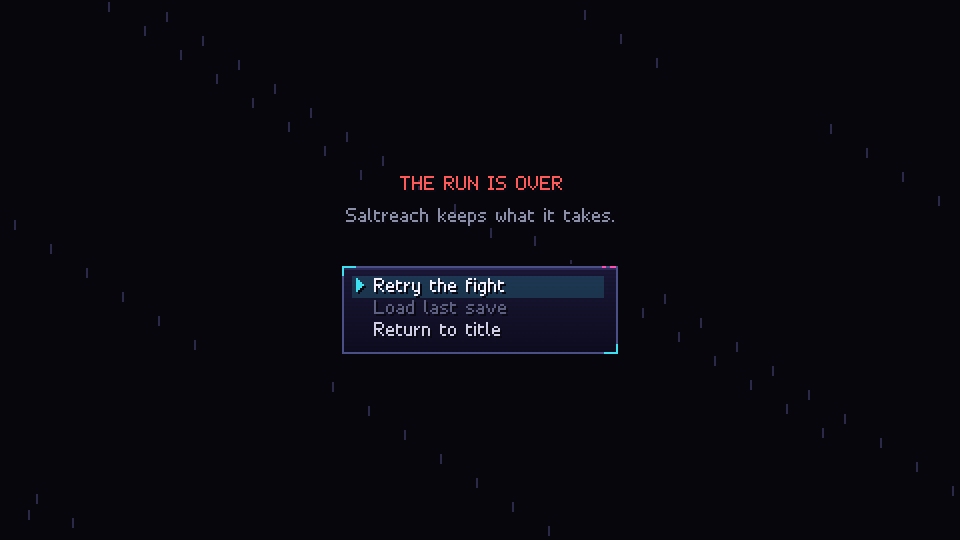
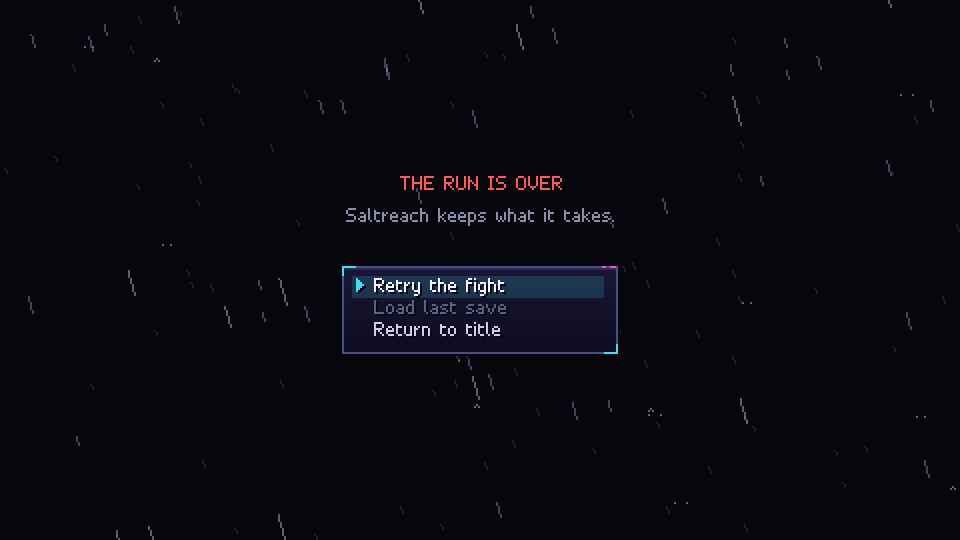
Feel and battle art: Game Over rains like the streets; the Drowned Shade screams
The Game Over screen uses the shared three-layer Weather rain (depth and
splashes), not a cheaper one-off streak field, at the game's heaviest beat.
The Drowned Shade gets hollow running eyes and a long drowned gape instead of
round cartoon eyes: a commuter still screaming underwater.

diff --git a/src/scenes/gameover.ts b/src/scenes/gameover.ts
@@ -6,12 +6,15 @@ import { Scene, W, H } from '../engine/game';
 import { hasAnySave } from '../game/save';
 import { drawWindow, UI } from '../ui/draw';
 import { ListMenu } from '../ui/list';
+import { Weather } from '../field/weather';
 
 export type GameOverChoice = 'retry' | 'load' | 'title';
 
 export class GameOverScene extends Scene<GameOverChoice> {
   private menu: ListMenu<GameOverChoice>;
   private t = 0;
+  /** The same three-layer rain as the streets (with splashes), not a cheaper stand-in. */
+  private rain = new Weather();
 
   constructor(canRetry: boolean) {
     super();
@@ -24,6 +27,7 @@ export class GameOverScene extends Scene<GameOverChoice> {
       3,
     );
     this.menu.index = canRetry ? 0 : hasAnySave() ? 1 : 2;
+    this.rain.set('rain', 0.8);
   }
 
   override enter(): void {
@@ -32,6 +36,7 @@ export class GameOverScene extends Scene<GameOverChoice> {
 
   update(): void {
     this.t++;
+    this.rain.update(0, 0);
     if (this.t < 70) return;
     const r = this.menu.update(this.game.input);
     if (r === 'confirm') this.close(this.menu.current!.value);
@@ -42,13 +47,7 @@ export class GameOverScene extends Scene<GameOverChoice> {
     ctx.fillRect(0, 0, W, H);
     const a = Math.min(1, this.t / 60);
     ctx.globalAlpha = a;
-    // Falling rain streaks for mood.
-    ctx.fillStyle = '#2a2a48';
-    for (let i = 0; i < 60; i++) {
-      const x = (i * 83 + this.t * 0.6) % W;
-      const y = (i * 47 + this.t * (2 + (i % 3))) % H;
-      ctx.fillRect(Math.round(x), Math.round(y), 1, 5);
-    }
+    this.rain.render(ctx);
     drawText(ctx, 'THE RUN IS OVER', W / 2, 88, { align: 'center', color: UI.red });
     drawText(ctx, 'Saltreach keeps what it takes.', W / 2, 104, { align: 'center', color: UI.dim });
     ctx.globalAlpha = 1;

diff --git a/src/art/enemies.ts b/src/art/enemies.ts
@@ -496,13 +496,18 @@ const CREATURES: Record<string, () => EnemyArt> = {
     p.rect(9, 1, 8, 3, '#2a4a58');
     // Dripping tail
     for (let i = 0; i < 5; i++) p.limb([[7 + i * 3, 24], [6 + i * 3, 28 + (i % 2) * 2], [7 + i * 3, 32]], 1.6, 0.4, '#2e5a68');
-    p.ellipse(10.5, 9, 1.2, 1.6, '#0a141a');
-    p.ellipse(15.5, 9, 1.2, 1.6, '#0a141a');
-    p.ellipse(13, 13, 1.5, 1, '#0a141a');
+    // Hollow, running eyes and a long drowned gape: a commuter still screaming underwater, not a
+    // friendly blob.
+    p.ellipse(10.5, 8.5, 1, 2.2, '#0a141a');
+    p.ellipse(15.5, 8.5, 1, 2.2, '#0a141a');
+    p.rect(10, 11, 1, 4, '#1e3a44');
+    p.rect(16, 11, 1, 5, '#1e3a44');
+    p.ellipse(13, 14.5, 1.4, 3, '#0a141a');
+    p.rect(12, 17, 1, 3, '#1e3a44');
     // Briefcase
     p.rect(17, 18, 6, 4, '#2a4048');
-    g.set(10, 9, '#9af0ff');
-    g.set(15, 9, '#9af0ff');
+    g.set(10, 10, '#6adcf0');
+    g.set(15, 10, '#6adcf0');
     return art(p, 'flicker', 0, g);
   },
   eel: () => {
